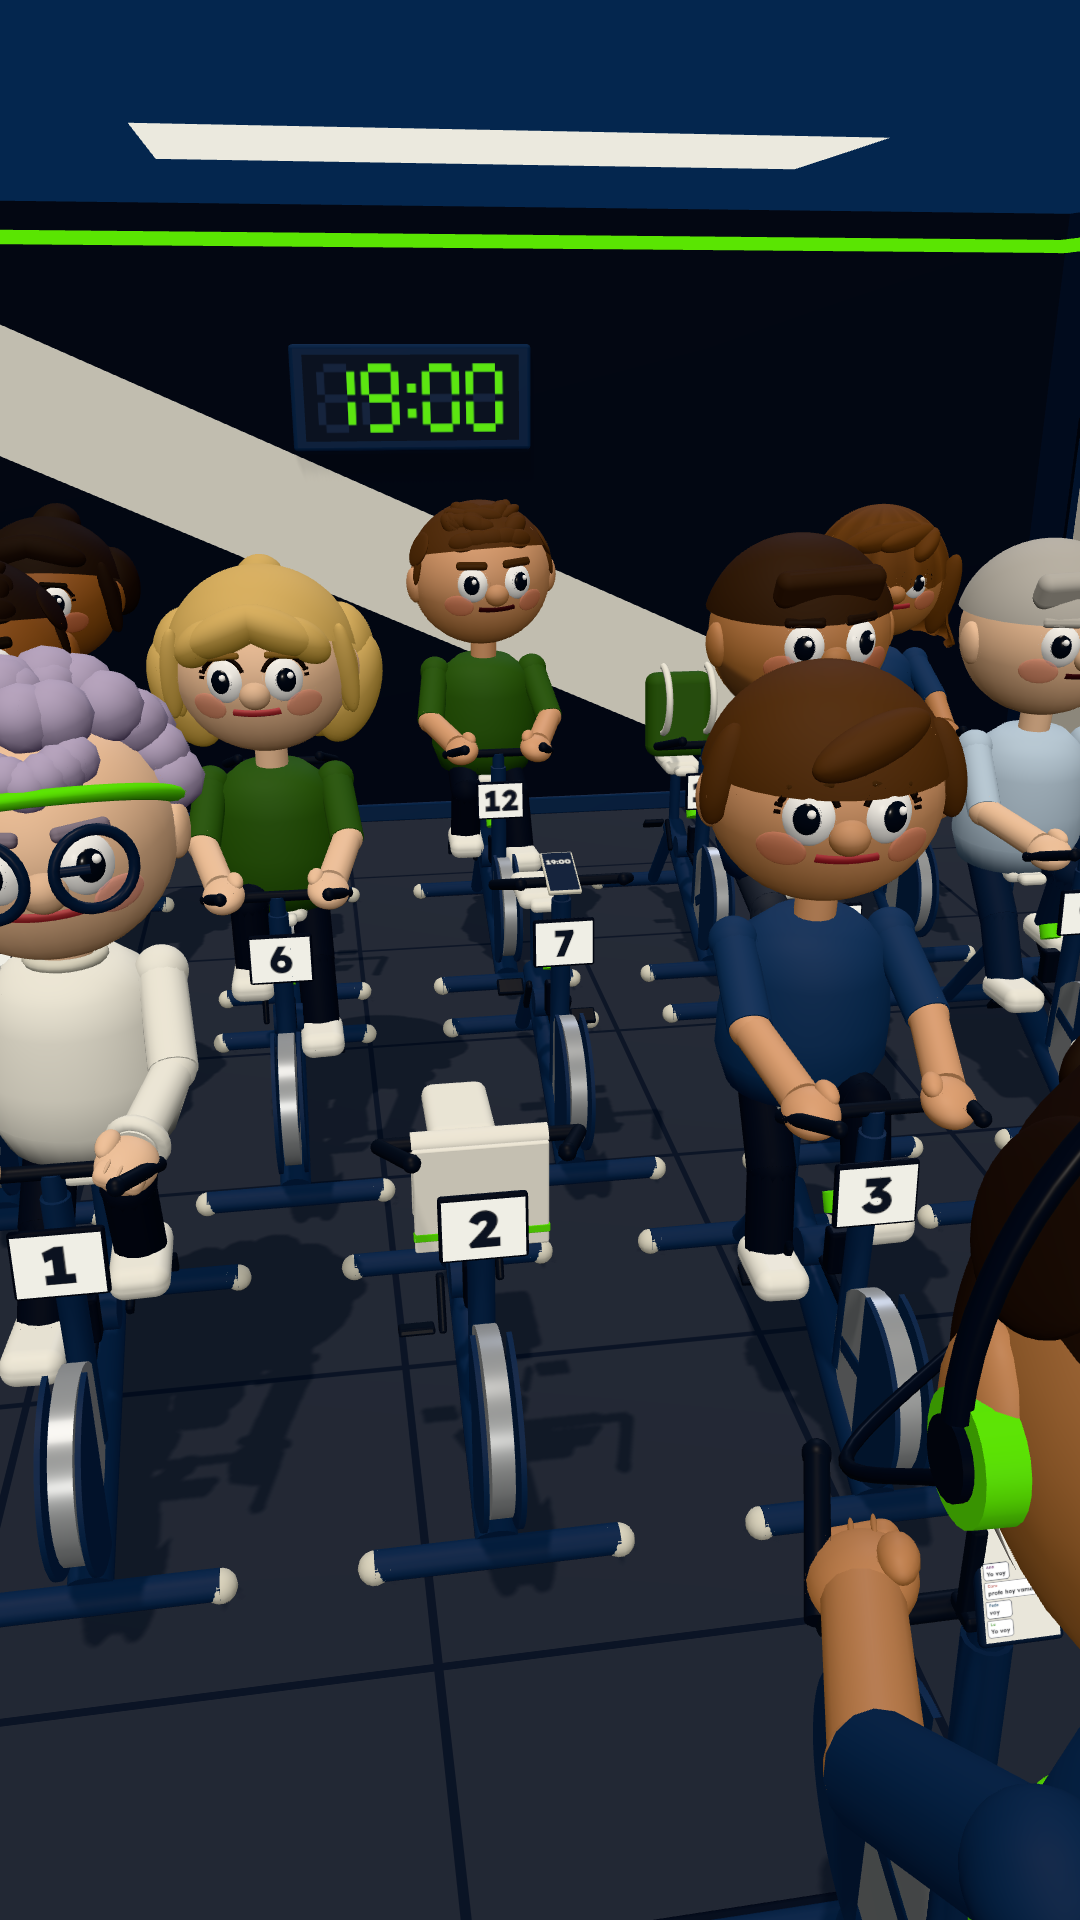
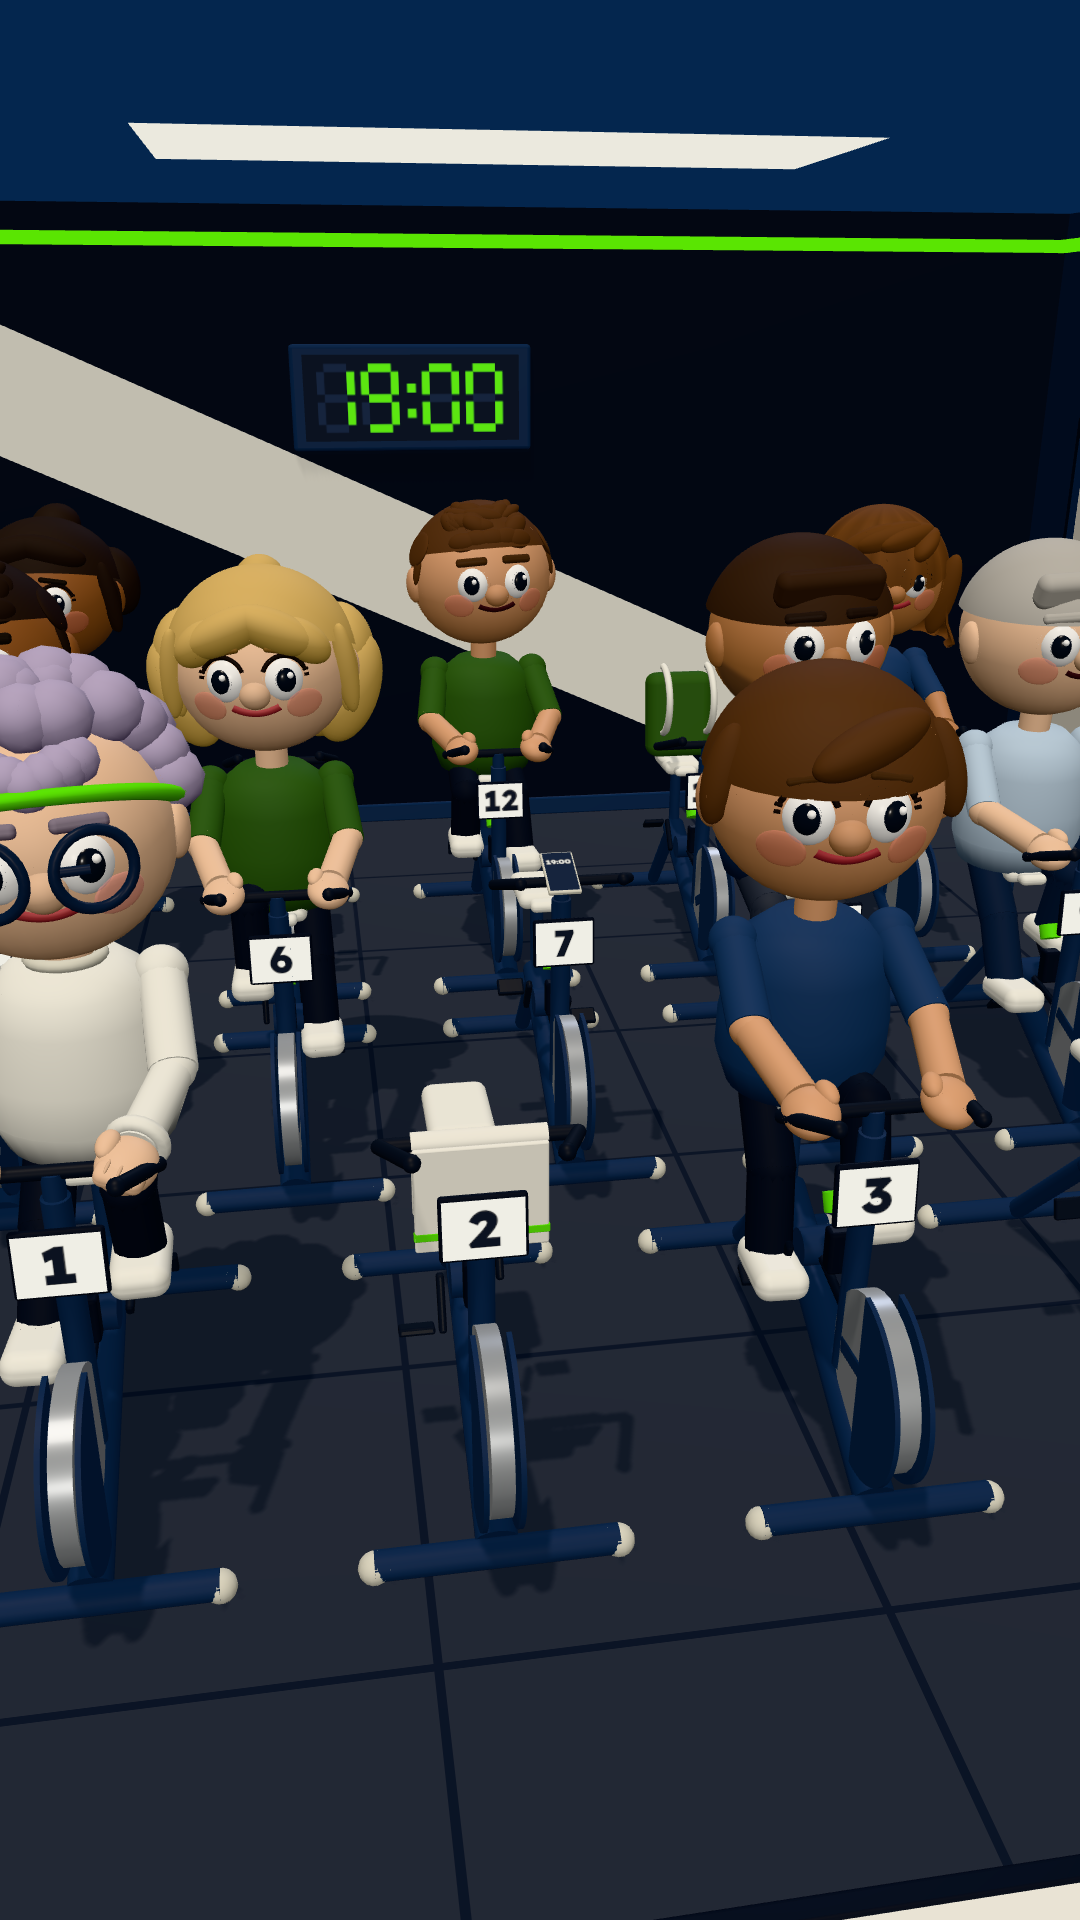
wip: gym-cupo (defectos del constructor y render de revisión r1)
Claude-Session: https://claude.ai/code/session_01Fn7kXDuHPbLVxCfK7ECjwJ

diff --git a/reels/gym-cupo/assets/tres.js b/reels/gym-cupo/assets/tres.js
@@ -437,11 +437,13 @@ function hablar(g, per, s, orden = 1, dx = 0, minArriba = 260) {
 // =====================================================================================================
 // LOS PERSONAJES
 // =====================================================================================================
-const mauro = crearPersonaje({ ...ELENCO.mauro, dedos: true, parpadeoCada: 999, parpadeosExtra: [r2(T.p3 + 0.3), r2(T.p5c + 0.6)] });
+const mauro = crearPersonaje({ ...ELENCO.mauro, franja: null, dedos: true, parpadeoCada: 999, parpadeosExtra: [r2(T.p3 + 0.3), r2(T.p5c + 0.6)] });
 // Graciela, versión gimnasio: la misma cara, rulos lila y lentes; remera crema de manga larga, calza navy, zapatillas crema
 const graciela = crearPersonaje({ ...ELENCO.clienta, camisa: MARCA.cr, cuello: MARCA.cr2, cuelloFino: true, cuelloBotones: false, pollera: null, pantalon: MARCA.navy, zapatos: MARCA.cr, aros: null, dedos: true, parpadeoCada: 999, parpadeosExtra: [r2(T.q3b + 1.5)] });
 const majo = crearPersonaje({ ...ELENCO.majo, dedos: true, parpadeoCada: 999, parpadeosExtra: [r2(T.q1b + 0.05)] });
 const sole = crearPersonaje({ ...ELENCO.sole, parpadeoCada: 999 });
+// la franja verde de marca en el pecho de Mauro: una banda chata solo adelante (no el aro de personajes.js)
+{ const f = mesh(new THREE.TorusGeometry(0.222, 0.011, 6, 40, Math.PI * 0.9), mat(MARCA.g, 0.5), 0, 0.33, 0); f.rotation.set(Math.PI / 2, 0, Math.PI * 0.05); f.scale.set(1, 0.875, 2.6); f.castShadow = false; mauro.cuerpo.add(f); }
 // la vincha de tela verde de Graciela (un aro ancho apoyado arriba de la frente, por debajo de los rulos de arriba)
 { const v = mesh(new THREE.TorusGeometry(0.29, 0.03, 10, 40), mat(MARCA.g, 0.8), 0, 0.33, -0.015); v.rotation.x = Math.PI / 2 - 0.42; v.scale.set(1.04, 1.06, 0.62); v.castShadow = false; graciela.cabeza.add(v); }
 // los alumnos de relleno (sin voz): A-H en la parte 1 (3, 5, 6, 8, 9, 10, 12, 14); I-K se suman en la parte 2 (2, 11, 13)
@@ -480,9 +482,14 @@ function crearToallaColgada() {
 }
 // la toalla al cuello (en el espacio del cuerpo): media vuelta por atrás y las dos puntas que caen sobre el pecho
 function crearToallaCuello(k = 1, blanca = false) {
+  // un rollo con volumen que rodea el cuello por atrás y dos puntas redondeadas que caen sobre el pecho, con franja verde
   const g = new THREE.Group(), m = mat(blanca ? 0xffffff : 0xf3f1e8, 0.95), mg = mat(MARCA.g, 0.8);
-  const ar = mesh(new THREE.TorusGeometry(0.125, 0.032, 8, 24, Math.PI * 1.25), m, 0, 0.47, -0.005); ar.rotation.set(Math.PI / 2 - 0.15, 0, -Math.PI * 1.125 + Math.PI); g.add(ar);
-  for (const s of [-1, 1]) { const p = caja(0.09, 0.13, 0.02, m, s * 0.075, 0.41, 0.165, 0.008); p.rotation.set(-0.45, 0, s * 0.12); g.add(p); const f = caja(0.092, 0.035, 0.022, mg, s * 0.078, 0.36, 0.19, 0.004); f.rotation.x = -0.45; g.add(f); }
+  const ar = mesh(new THREE.TorusGeometry(0.135, 0.045, 12, 28, Math.PI * 1.3), m, 0, 0.5, -0.01); ar.rotation.set(Math.PI / 2 - 0.12, 0, Math.PI * 0.35 - Math.PI * 1.3 / 2 + Math.PI / 2 + Math.PI); ar.scale.set(1, 0.95, 0.7); g.add(ar);
+  for (const s of [-1, 1]) {
+    const pu = new THREE.Group(); pu.position.set(s * 0.1, 0.47, 0.15); pu.rotation.set(-0.35, 0, s * 0.1); g.add(pu);
+    const c = mesh(new THREE.CapsuleGeometry(0.042, 0.13, 6, 12), m, 0, -0.09, 0); c.scale.set(1.05, 1, 0.6); pu.add(c);
+    const f = mesh(new THREE.CylinderGeometry(0.045, 0.045, 0.025, 14), mg, 0, -0.15, 0); f.scale.set(1.05, 1, 0.62); pu.add(f);
+  }
   g.scale.setScalar(k);
   return sombras(g);
 }
@@ -901,7 +908,7 @@ function ponerLupa(t, cx, cy, s, objetivo) { const l = msgsP1(t), k = `${l.lengt
 const lerpV = (a, b, k) => a.map((v, i) => lerp(v, b[i], k));
 const CAM = {
   P1a: [-0.95, 1.62, -0.75, 0.4, 1.8, -4.3, 60], P1z: [-0.88, 1.62, -0.95, 0.38, 1.8, -4.3, 58],
-  Wa: [0.85, 3.12, -5.15, -0.05, -0.3, 0.6, 74], Wz: [0.83, 3.08, -5.02, -0.05, -0.28, 0.6, 72],
+  Wa: [0.85, 3.05, -4.35, 0.05, -0.3, 0.8, 77], Wz: [0.84, 3.03, -4.25, 0.05, -0.28, 0.8, 76],
   P4a: [1.25, 1.95, -2.35, 0.0, 1.72, -4.35, 40], P4z: [1.15, 1.93, -2.55, 0.0, 1.74, -4.35, 38],
   P5a: [-0.42, 2.22, -4.98, 0.04, 1.3, -3.7, 42], P5z: [-0.38, 2.15, -4.88, 0.04, 1.3, -3.7, 40],
   P5c: [-1.05, 1.85, -1.95, 0.0, 1.62, -4.3, 50],
@@ -915,7 +922,7 @@ const PLANOS = [
   ["P1", 0, k2(0, T.p1b, "P1a", "P1z")],
   ["P1b", T.p1b, null],
   ["P2", T.p2, k2(T.p2, T.p3, "Wa", "Wz")],
-  ["P3", T.p3, [[T.p3, ...CAM.Wz], [T.p3i, ...lerpV(CAM.Wz, [0.81, 3.05, -4.92, -0.05, -0.26, 0.6, 70], 1)]]],
+  ["P3", T.p3, [[T.p3, ...CAM.Wz], [T.p3i, ...lerpV(CAM.Wz, [0.83, 3.02, -4.18, 0.05, -0.27, 0.8, 75], 1)]]],
   ["P3i", T.p3i, null],
   ["P4", T.p4, k2(T.p4, T.p5, "P4a", "P4z")],
   ["P5", T.p5, null],
@@ -993,13 +1000,14 @@ function enLaBici(per, b, t, base, { fase = 1.2, inclina = 0.1, manos = true, bo
   p.t = t; return p;
 }
 const pedaleo = (t, n, desde) => (t >= desde ? FASE0(n) + 2 * Math.PI * CAD * (t - desde) : FASE0(n));
-const ESPERA = [[0, { ...aC(0, -0.05), ...CARA.neutra, ojos: { abiertos: 0.95, y: 0.05 } }]];
+const CONTENTO = { ...CARA.neutra, ojos: { abiertos: 0.95, y: 0.05, feliz: 0.15 }, cejas: { alto: 0.35, ang: 0.2, asim: 0 }, boca: { sonrisa: 0.45, abierta: 0, ancho: 1 } };
+const ESPERA = [[0, { ...aC(0, -0.05), ...CONTENTO }]];
 const pedalea = (t, n, desde, extra = {}) => { const f = pedaleo(t, n, desde), on = t >= desde; return { fase: f, inclina: on ? 0.26 : 0.1, bob: on ? Math.abs(Math.sin(f)) * 0.012 : 0, ...extra }; };
 // la entrada de los nueve (P2): de la puerta caminando (cámara rápida) hasta el costado de la bici y el salto al asiento
 const PUERTA_P = V3(XL + 0.35, 0, PUERTA.z);
 function entrando(per, n, i, t) {
   const b = biciN(n), te = T.entra[i], ts = T.sienta[i];
-  const costado = enBici(b, -0.5, 0, 0.15);   // a la derecha de la bici (mirando a la tarima)
+  const costado = enBici(b, 0, 0, -0.72);   // detrás del asiento: sube por atrás (las piernas no cruzan el cuadro)
   if (t < ts - 0.16) {
     const u = sg(t, te, ts - 0.16), pos = PUERTA_P.clone().lerp(costado, eio(u));
     const g = dirGiro(PUERTA_P.x, PUERTA_P.z, costado.x, costado.z);
@@ -1021,7 +1029,7 @@ function poseAlumno(per, n, i, t, pa) {
   if (!p2 && pa === "P2" && t < T.sienta[i]) return entrando(per, n, i, t);
   const desde = p2 ? T.q3 - 2 : T.musica;
   const mira = 0.12 * Math.sin(n * 1.7);
-  const base = [[0, { ...aC(mira, -0.05), ...CARA.neutra, ojos: { abiertos: 0.95, y: 0.05 } }]];
+  const base = [[0, { ...aC(mira, -0.05), ...CONTENTO }]];
   if (p2 || t >= T.musica) base.push([desde + 0.4, { ...aC(mira * 0.5, 0.05), ...CARA.sonrisa }, 0.3]);
   const p = enLaBici(per, biciN(n), t, base, pedalea(t, n, desde));
   // el que tira un perchero levanta la mano un momento
@@ -1172,7 +1180,7 @@ function renderAt(tIn) {
   const enSala = !INSERTOS.includes(pa) && !living;
   for (const p of TODOS) p.raiz.visible = false;
   if (enSala) {
-    if (pa !== "Q3b" && pa !== "Q3d") { mauro.raiz.visible = true; mauro.poner(poseMauro(t, pa)); }   // en Q3b/Q3d la cámara está en la tarima, al lado de Mauro
+    if (!["Q3b", "Q3d", "P2", "P3", "P5b", "Q3"].includes(pa)) { mauro.raiz.visible = true; mauro.poner(poseMauro(t, pa)); }   // en Q3b/Q3d la cámara está al lado de él; en los gran planos quedaba cortado en el borde   // en Q3b/Q3d la cámara está en la tarima, al lado de Mauro
     const lista = p2 ? EN_BICI_2 : EN_BICI_1;
     lista.forEach(([per, n], i) => {
       if (!p2 && (t < T.p2 || (pa === "P2" && t < T.entra[i]))) return;   // 18:20: la sala vacía
@@ -1189,6 +1197,7 @@ function renderAt(tIn) {
   if (window.__cam) ponerCam(window.__cam, t);
   camera.updateMatrixWorld(true);
   ponerObjetos(t, pa);
+  const ancho = ["P2", "P3", "P5b", "Q3"].includes(pa); BICI_P.visible = !ancho; if (ancho) CEL_M.visible = false;   // en los gran planos la bici del profe quedaba cortada abajo
   // ---- insertos ----
   const I = { P1b: INS.P1b, P3i: INS.P3i, P5: INS.P5, Q1: INS.Q1, Q1c: INS.Q1, Q1s: INS.Q1s, Q2: INS.Q2, Q2t: INS.Q2t, Q2s: INS.Q2s, Q4: INS.Q4 }[pa];
   for (const k in INS) INS[k].g.visible = INS[k] === I;
@@ -1200,7 +1209,7 @@ function renderAt(tIn) {
   }
   for (const p of TODOS) if (p.raiz.visible) p.ojoLejano(camera.position);
   // ---- portada (VER=portada): la sala con los nueve y las cinco bicis de perchero, todo en la mitad de arriba ----
-  if (VER === "portada") { ponerCam([0.75, 2.6, -5.1, -0.1, 0.25, 0.4, 66], t); camera.updateMatrixWorld(true); ponerObjetos(t, pa); for (const p of TODOS) if (p.raiz.visible) p.ojoLejano(camera.position); }
+  if (VER === "portada") { ponerCam([0.75, 2.6, -5.1, -0.1, 0.25, 0.4, 66], t); camera.updateMatrixWorld(true); ponerObjetos(t, pa); CEL_M.visible = false; BICI_P.visible = false; for (const p of TODOS) if (p.raiz.visible) p.ojoLejano(camera.position); }
   // ---- tarjetas ----
   AVISOS.length = 0;
   for (const k in GL) GL[k].visible = false;
@@ -1251,7 +1260,7 @@ function tarjetas(t, pa) {
   if (pa === "Q3" || pa === "Q3b" || pa === "Q3c" || pa === "Q3d") {
     ponerGlobo(GL.c1900, 250, 150, 1, null);
     if (pa === "Q3") ponerContador([["RESERVAS", 14, "#5ce611"], ["VINIERON", 14, "#5ce611"]], 830, 90, 1, 0);
-    if (pa === "Q3" && t >= T.m4) { verLineas(GL.m4, t >= T.m4 + T.FRASE2.m4 ? 2 : 1); hablar(GL.m4, mauro, ent(T.m4), 1, 0, 330); }
+    if (pa === "Q3" && t >= T.m4) { verLineas(GL.m4, t >= T.m4 + T.FRASE2.m4 ? 2 : 1); ponerGlobo(GL.m4, 540, 1560, ent(T.m4), null, 1); }   // por los parlantes: abajo, sin cola
     if (pa === "Q3b" && t >= T.g1) hablar(GL.g1, graciela, ent(T.g1), 1, 0, 300);
     if (pa === "Q3c" && t >= T.m5) hablar(GL.m5, mauro, ent(T.m5), 1, 0, 300);
   }

diff --git a/reels/gym-cupo/partes/tmp/t/7_render.js b/reels/gym-cupo/partes/tmp/t/7_render.js
@@ -16,13 +16,14 @@ function enLaBici(per, b, t, base, { fase = 1.2, inclina = 0.1, manos = true, bo
   p.t = t; return p;
 }
 const pedaleo = (t, n, desde) => (t >= desde ? FASE0(n) + 2 * Math.PI * CAD * (t - desde) : FASE0(n));
-const ESPERA = [[0, { ...aC(0, -0.05), ...CARA.neutra, ojos: { abiertos: 0.95, y: 0.05 } }]];
+const CONTENTO = { ...CARA.neutra, ojos: { abiertos: 0.95, y: 0.05, feliz: 0.15 }, cejas: { alto: 0.35, ang: 0.2, asim: 0 }, boca: { sonrisa: 0.45, abierta: 0, ancho: 1 } };
+const ESPERA = [[0, { ...aC(0, -0.05), ...CONTENTO }]];
 const pedalea = (t, n, desde, extra = {}) => { const f = pedaleo(t, n, desde), on = t >= desde; return { fase: f, inclina: on ? 0.26 : 0.1, bob: on ? Math.abs(Math.sin(f)) * 0.012 : 0, ...extra }; };
 // la entrada de los nueve (P2): de la puerta caminando (cámara rápida) hasta el costado de la bici y el salto al asiento
 const PUERTA_P = V3(XL + 0.35, 0, PUERTA.z);
 function entrando(per, n, i, t) {
   const b = biciN(n), te = T.entra[i], ts = T.sienta[i];
-  const costado = enBici(b, -0.5, 0, 0.15);   // a la derecha de la bici (mirando a la tarima)
+  const costado = enBici(b, 0, 0, -0.72);   // detrás del asiento: sube por atrás (las piernas no cruzan el cuadro)
   if (t < ts - 0.16) {
     const u = sg(t, te, ts - 0.16), pos = PUERTA_P.clone().lerp(costado, eio(u));
     const g = dirGiro(PUERTA_P.x, PUERTA_P.z, costado.x, costado.z);
@@ -44,7 +45,7 @@ function poseAlumno(per, n, i, t, pa) {
   if (!p2 && pa === "P2" && t < T.sienta[i]) return entrando(per, n, i, t);
   const desde = p2 ? T.q3 - 2 : T.musica;
   const mira = 0.12 * Math.sin(n * 1.7);
-  const base = [[0, { ...aC(mira, -0.05), ...CARA.neutra, ojos: { abiertos: 0.95, y: 0.05 } }]];
+  const base = [[0, { ...aC(mira, -0.05), ...CONTENTO }]];
   if (p2 || t >= T.musica) base.push([desde + 0.4, { ...aC(mira * 0.5, 0.05), ...CARA.sonrisa }, 0.3]);
   const p = enLaBici(per, biciN(n), t, base, pedalea(t, n, desde));
   // el que tira un perchero levanta la mano un momento
@@ -195,7 +196,7 @@ function renderAt(tIn) {
   const enSala = !INSERTOS.includes(pa) && !living;
   for (const p of TODOS) p.raiz.visible = false;
   if (enSala) {
-    if (pa !== "Q3b" && pa !== "Q3d") { mauro.raiz.visible = true; mauro.poner(poseMauro(t, pa)); }   // en Q3b/Q3d la cámara está en la tarima, al lado de Mauro
+    if (!["Q3b", "Q3d", "P2", "P3", "P5b", "Q3"].includes(pa)) { mauro.raiz.visible = true; mauro.poner(poseMauro(t, pa)); }   // en Q3b/Q3d la cámara está al lado de él; en los gran planos quedaba cortado en el borde   // en Q3b/Q3d la cámara está en la tarima, al lado de Mauro
     const lista = p2 ? EN_BICI_2 : EN_BICI_1;
     lista.forEach(([per, n], i) => {
       if (!p2 && (t < T.p2 || (pa === "P2" && t < T.entra[i]))) return;   // 18:20: la sala vacía
@@ -212,6 +213,7 @@ function renderAt(tIn) {
   if (window.__cam) ponerCam(window.__cam, t);
   camera.updateMatrixWorld(true);
   ponerObjetos(t, pa);
+  const ancho = ["P2", "P3", "P5b", "Q3"].includes(pa); BICI_P.visible = !ancho; if (ancho) CEL_M.visible = false;   // en los gran planos la bici del profe quedaba cortada abajo
   // ---- insertos ----
   const I = { P1b: INS.P1b, P3i: INS.P3i, P5: INS.P5, Q1: INS.Q1, Q1c: INS.Q1, Q1s: INS.Q1s, Q2: INS.Q2, Q2t: INS.Q2t, Q2s: INS.Q2s, Q4: INS.Q4 }[pa];
   for (const k in INS) INS[k].g.visible = INS[k] === I;
@@ -223,7 +225,7 @@ function renderAt(tIn) {
   }
   for (const p of TODOS) if (p.raiz.visible) p.ojoLejano(camera.position);
   // ---- portada (VER=portada): la sala con los nueve y las cinco bicis de perchero, todo en la mitad de arriba ----
-  if (VER === "portada") { ponerCam([0.75, 2.6, -5.1, -0.1, 0.25, 0.4, 66], t); camera.updateMatrixWorld(true); ponerObjetos(t, pa); for (const p of TODOS) if (p.raiz.visible) p.ojoLejano(camera.position); }
+  if (VER === "portada") { ponerCam([0.75, 2.6, -5.1, -0.1, 0.25, 0.4, 66], t); camera.updateMatrixWorld(true); ponerObjetos(t, pa); CEL_M.visible = false; BICI_P.visible = false; for (const p of TODOS) if (p.raiz.visible) p.ojoLejano(camera.position); }
   // ---- tarjetas ----
   AVISOS.length = 0;
   for (const k in GL) GL[k].visible = false;
@@ -274,7 +276,7 @@ function tarjetas(t, pa) {
   if (pa === "Q3" || pa === "Q3b" || pa === "Q3c" || pa === "Q3d") {
     ponerGlobo(GL.c1900, 250, 150, 1, null);
     if (pa === "Q3") ponerContador([["RESERVAS", 14, "#5ce611"], ["VINIERON", 14, "#5ce611"]], 830, 90, 1, 0);
-    if (pa === "Q3" && t >= T.m4) { verLineas(GL.m4, t >= T.m4 + T.FRASE2.m4 ? 2 : 1); hablar(GL.m4, mauro, ent(T.m4), 1, 0, 330); }
+    if (pa === "Q3" && t >= T.m4) { verLineas(GL.m4, t >= T.m4 + T.FRASE2.m4 ? 2 : 1); ponerGlobo(GL.m4, 540, 1560, ent(T.m4), null, 1); }   // por los parlantes: abajo, sin cola
     if (pa === "Q3b" && t >= T.g1) hablar(GL.g1, graciela, ent(T.g1), 1, 0, 300);
     if (pa === "Q3c" && t >= T.m5) hablar(GL.m5, mauro, ent(T.m5), 1, 0, 300);
   }

diff --git a/reels/gym-cupo/partes/tmp/t/3_pers.js b/reels/gym-cupo/partes/tmp/t/3_pers.js
@@ -2,11 +2,13 @@
 // =====================================================================================================
 // LOS PERSONAJES
 // =====================================================================================================
-const mauro = crearPersonaje({ ...ELENCO.mauro, dedos: true, parpadeoCada: 999, parpadeosExtra: [r2(T.p3 + 0.3), r2(T.p5c + 0.6)] });
+const mauro = crearPersonaje({ ...ELENCO.mauro, franja: null, dedos: true, parpadeoCada: 999, parpadeosExtra: [r2(T.p3 + 0.3), r2(T.p5c + 0.6)] });
 // Graciela, versión gimnasio: la misma cara, rulos lila y lentes; remera crema de manga larga, calza navy, zapatillas crema
 const graciela = crearPersonaje({ ...ELENCO.clienta, camisa: MARCA.cr, cuello: MARCA.cr2, cuelloFino: true, cuelloBotones: false, pollera: null, pantalon: MARCA.navy, zapatos: MARCA.cr, aros: null, dedos: true, parpadeoCada: 999, parpadeosExtra: [r2(T.q3b + 1.5)] });
 const majo = crearPersonaje({ ...ELENCO.majo, dedos: true, parpadeoCada: 999, parpadeosExtra: [r2(T.q1b + 0.05)] });
 const sole = crearPersonaje({ ...ELENCO.sole, parpadeoCada: 999 });
+// la franja verde de marca en el pecho de Mauro: una banda chata solo adelante (no el aro de personajes.js)
+{ const f = mesh(new THREE.TorusGeometry(0.222, 0.011, 6, 40, Math.PI * 0.9), mat(MARCA.g, 0.5), 0, 0.33, 0); f.rotation.set(Math.PI / 2, 0, Math.PI * 0.05); f.scale.set(1, 0.875, 2.6); f.castShadow = false; mauro.cuerpo.add(f); }
 // la vincha de tela verde de Graciela (un aro ancho apoyado arriba de la frente, por debajo de los rulos de arriba)
 { const v = mesh(new THREE.TorusGeometry(0.29, 0.03, 10, 40), mat(MARCA.g, 0.8), 0, 0.33, -0.015); v.rotation.x = Math.PI / 2 - 0.42; v.scale.set(1.04, 1.06, 0.62); v.castShadow = false; graciela.cabeza.add(v); }
 // los alumnos de relleno (sin voz): A-H en la parte 1 (3, 5, 6, 8, 9, 10, 12, 14); I-K se suman en la parte 2 (2, 11, 13)
@@ -45,9 +47,14 @@ function crearToallaColgada() {
 }
 // la toalla al cuello (en el espacio del cuerpo): media vuelta por atrás y las dos puntas que caen sobre el pecho
 function crearToallaCuello(k = 1, blanca = false) {
+  // un rollo con volumen que rodea el cuello por atrás y dos puntas redondeadas que caen sobre el pecho, con franja verde
   const g = new THREE.Group(), m = mat(blanca ? 0xffffff : 0xf3f1e8, 0.95), mg = mat(MARCA.g, 0.8);
-  const ar = mesh(new THREE.TorusGeometry(0.125, 0.032, 8, 24, Math.PI * 1.25), m, 0, 0.47, -0.005); ar.rotation.set(Math.PI / 2 - 0.15, 0, -Math.PI * 1.125 + Math.PI); g.add(ar);
-  for (const s of [-1, 1]) { const p = caja(0.09, 0.13, 0.02, m, s * 0.075, 0.41, 0.165, 0.008); p.rotation.set(-0.45, 0, s * 0.12); g.add(p); const f = caja(0.092, 0.035, 0.022, mg, s * 0.078, 0.36, 0.19, 0.004); f.rotation.x = -0.45; g.add(f); }
+  const ar = mesh(new THREE.TorusGeometry(0.135, 0.045, 12, 28, Math.PI * 1.3), m, 0, 0.5, -0.01); ar.rotation.set(Math.PI / 2 - 0.12, 0, Math.PI * 0.35 - Math.PI * 1.3 / 2 + Math.PI / 2 + Math.PI); ar.scale.set(1, 0.95, 0.7); g.add(ar);
+  for (const s of [-1, 1]) {
+    const pu = new THREE.Group(); pu.position.set(s * 0.1, 0.47, 0.15); pu.rotation.set(-0.35, 0, s * 0.1); g.add(pu);
+    const c = mesh(new THREE.CapsuleGeometry(0.042, 0.13, 6, 12), m, 0, -0.09, 0); c.scale.set(1.05, 1, 0.6); pu.add(c);
+    const f = mesh(new THREE.CylinderGeometry(0.045, 0.045, 0.025, 14), mg, 0, -0.15, 0); f.scale.set(1.05, 1, 0.62); pu.add(f);
+  }
   g.scale.setScalar(k);
   return sombras(g);
 }

diff --git a/reels/gym-cupo/partes/tmp/t/6_planos.js b/reels/gym-cupo/partes/tmp/t/6_planos.js
@@ -5,7 +5,7 @@
 const lerpV = (a, b, k) => a.map((v, i) => lerp(v, b[i], k));
 const CAM = {
   P1a: [-0.95, 1.62, -0.75, 0.4, 1.8, -4.3, 60], P1z: [-0.88, 1.62, -0.95, 0.38, 1.8, -4.3, 58],
-  Wa: [0.85, 3.12, -5.15, -0.05, -0.3, 0.6, 74], Wz: [0.83, 3.08, -5.02, -0.05, -0.28, 0.6, 72],
+  Wa: [0.85, 3.05, -4.35, 0.05, -0.3, 0.8, 77], Wz: [0.84, 3.03, -4.25, 0.05, -0.28, 0.8, 76],
   P4a: [1.25, 1.95, -2.35, 0.0, 1.72, -4.35, 40], P4z: [1.15, 1.93, -2.55, 0.0, 1.74, -4.35, 38],
   P5a: [-0.42, 2.22, -4.98, 0.04, 1.3, -3.7, 42], P5z: [-0.38, 2.15, -4.88, 0.04, 1.3, -3.7, 40],
   P5c: [-1.05, 1.85, -1.95, 0.0, 1.62, -4.3, 50],
@@ -19,7 +19,7 @@ const PLANOS = [
   ["P1", 0, k2(0, T.p1b, "P1a", "P1z")],
   ["P1b", T.p1b, null],
   ["P2", T.p2, k2(T.p2, T.p3, "Wa", "Wz")],
-  ["P3", T.p3, [[T.p3, ...CAM.Wz], [T.p3i, ...lerpV(CAM.Wz, [0.81, 3.05, -4.92, -0.05, -0.26, 0.6, 70], 1)]]],
+  ["P3", T.p3, [[T.p3, ...CAM.Wz], [T.p3i, ...lerpV(CAM.Wz, [0.83, 3.02, -4.18, 0.05, -0.27, 0.8, 75], 1)]]],
   ["P3i", T.p3i, null],
   ["P4", T.p4, k2(T.p4, T.p5, "P4a", "P4z")],
   ["P5", T.p5, null],

diff --git a/reels/gym-cupo/NOTAS-constructor.md b/reels/gym-cupo/NOTAS-constructor.md
@@ -87,3 +87,16 @@ celular, 22 → 23) · P5c 17,10 (Mauro lo da vuelta) · P5b 17,95 (arrancan a p
   instante las piernas pueden cruzar el cuadro de la bici.
 - Portada: `portada.json` con t 11,2 y `portada-src/fondo-limpio-11.2.png` (VER=portada LIMPIO=1, la sala con la toalla en
   la 2 y el celular en la 7). `herramientas/portada.mjs` necesita el MP4 final en la rama: correrlo después del render.
+
+## Antes de la revisión (pedido del coordinador, 25-11)
+- Toalla al cuello (Mauro y Graciela): rollo con volumen (toro grueso por atrás del cuello) y dos puntas redondeadas
+  (cápsulas aplanadas) con la franja verde abajo; la de Graciela blanca y un poco más grande.
+- La franja de la remera de Mauro: sin el aro de personajes.js (`franja: null`); una banda verde chata solo adelante.
+- Alumnos del gran plano con cara contenta (cejas arriba, media sonrisa) en la espera y en la parte 2.
+- El salto a la bici: llegan por detrás del asiento y suben hacia adelante (las piernas pasan a los costados del poste,
+  no cruzan el cuadro).
+- Gran planos (P2, P3, P5b, Q3): cámara bajada de la tarima a z -4,35 (por encima de la bici del profe), fov 77; Mauro, su
+  bici y su celular ocultos en esos planos (quedaban cortados abajo a la derecha). "Catorce reservas. Pedalean catorce."
+  va por los parlantes: burbuja con el micrófono abajo, sin cola. Fondo de la portada regenerado con la misma regla.
+- Render de revisión 1: `renders/gym-cupo.mp4` en 1433 s (23,9 min, SwiftShader, sin espera de candado) + paso10.sh 80 s →
+  `renders/gym-cupo-final.mp4` (42,70 s, -14,0 LUFS, pico -5,2 dBFS). Hoja cada 2 s: `renders/hoja.png`.
